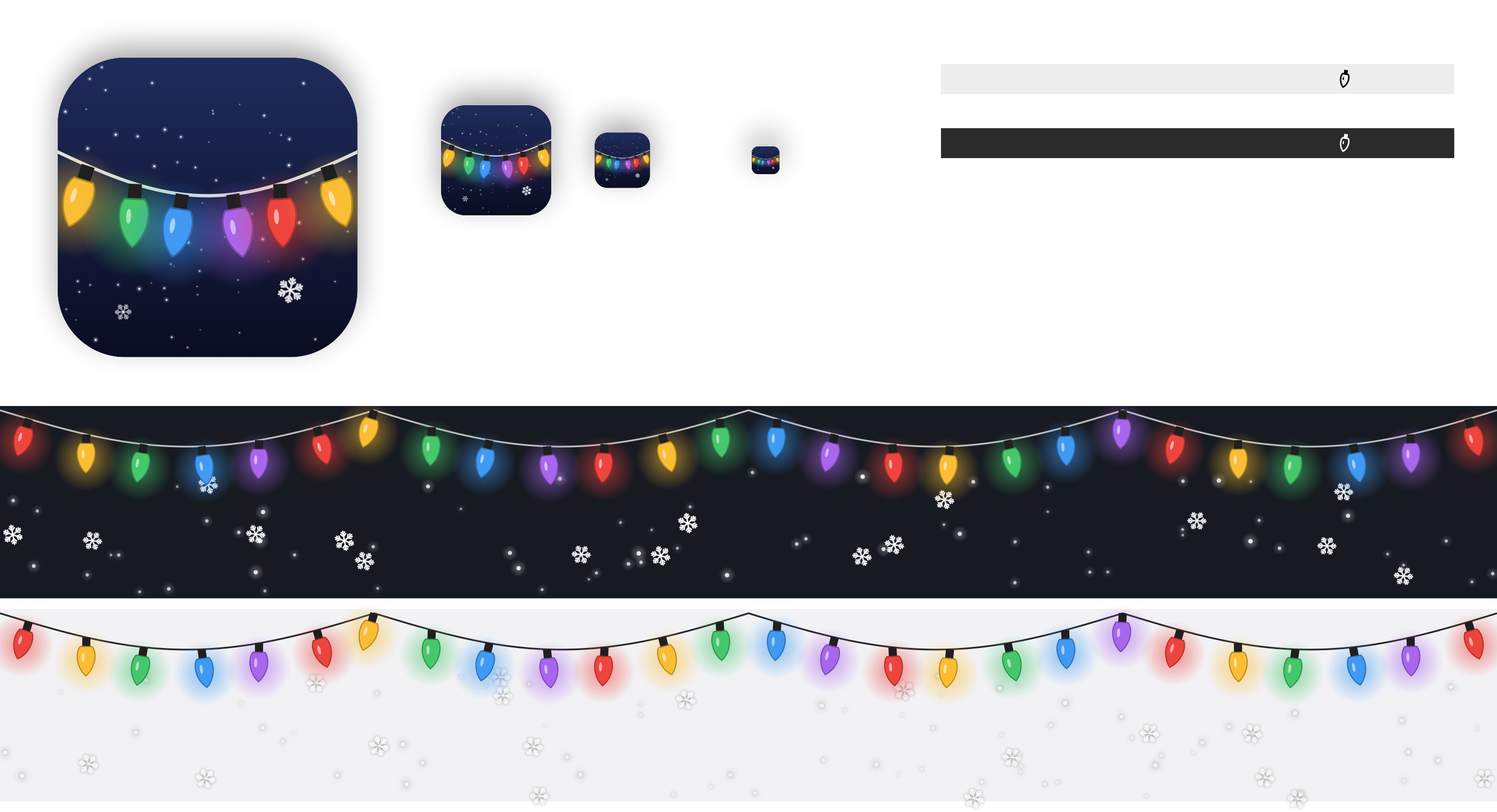
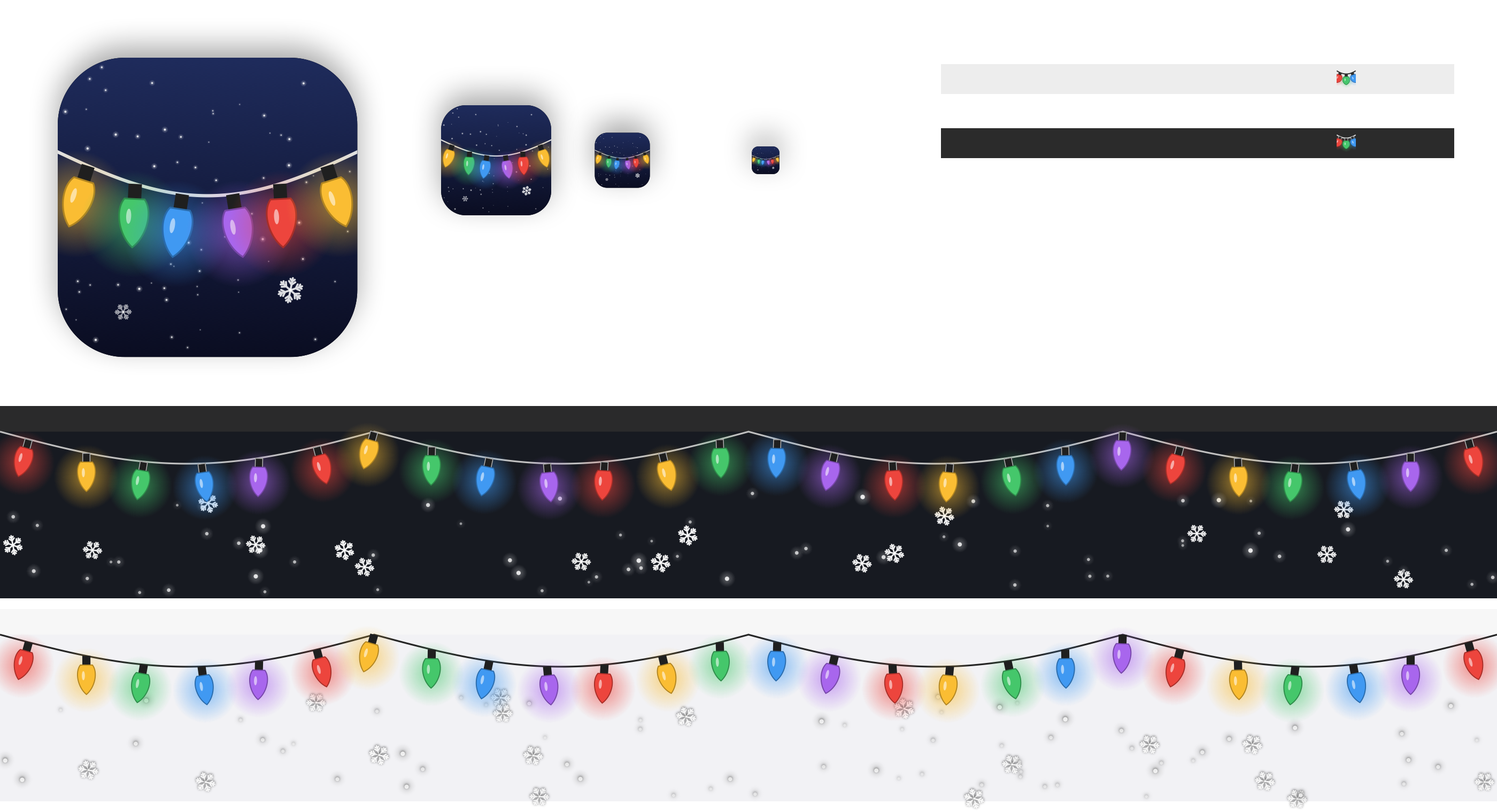
Spezifikation nach Review: Standardwerte, Dock, Schneesturm, Berechtigung, Abnahme; Zielbild aktualisiert

diff --git a/SPEC.md b/SPEC.md
@@ -1,117 +1,169 @@
 # FestiveLights: Spezifikation
 
-Stand: Entwurf zur Abstimmung. Diese Spezifikation beschreibt ausschließlich Verhalten und Erlebnis aus Nutzersicht. Sie enthält bewusst keine Implementierungsdetails. Wie etwas technisch gelöst wird, entscheidet das Implementierungs-Team.
+Diese Spezifikation beschreibt Verhalten und Erlebnis aus Nutzersicht. Wie etwas technisch gelöst wird, entscheidet das Implementierungs-Team. Ausnahme sind die Rahmenbedingungen in Abschnitt 9 und die Grafikvorgaben in Abschnitt 8.
 
 ## 1. Produktidee
 
-FestiveLights macht den Mac in der Weihnachtszeit festlich: eine Lichterkette hängt unter der Menüleiste, Schnee fällt über den Bildschirm. Beides reagiert auf den Mauszeiger und stört nie bei der Arbeit.
+FestiveLights macht den Mac in der Weihnachtszeit festlich: Eine Lichterkette hängt unter der Menüleiste, Schnee rieselt über den Bildschirm. Beides reagiert auf den Mauszeiger und stört nie bei der Arbeit.
 
-Ziel ist ein Lächeln innerhalb von 10 Sekunden nach dem ersten Start und dass Nutzer die App die ganze Saison über anlassen.
+Ziel: ein Lächeln innerhalb von 10 Sekunden nach dem ersten Start, und Nutzer lassen die App die ganze Saison über an.
 
 ## 2. Gestaltungsprinzipien
 
-1. **Liebe zum Detail vor Feature-Menge.** Lieber wenige Dinge, die sich hochwertig und lebendig anfühlen.
-2. **Nie im Weg.** Klicks gehen immer durch Lichter und Schnee hindurch. Was dem Zeiger nahekommt, weicht sanft aus.
-3. **Sofortige Magie.** Nach dem Start leuchtet es sofort, ohne Einrichtung und ohne Dialoge.
+1. **Liebe zum Detail vor Feature-Menge.** Wenige Dinge, die sich hochwertig und lebendig anfühlen. Nichts schaltet hart, alles blendet, schwingt oder glimmt.
+2. **Nie im Weg.** Klicks, Scrollen und Drag-and-drop gehen immer durch Lichter und Schnee hindurch. Was dem Zeiger nahekommt, weicht sanft aus.
+3. **Sofortige Magie.** Nach dem Start leuchtet es sofort, ohne Einrichtung und ohne modale Dialoge.
 4. **Respekt vor dem Rechner.** Sparsam mit Energie, besonders im Akkubetrieb.
-5. **Ruhig konfigurierbar.** Wenige, verständliche Einstellungen statt einer Optionswüste.
+5. **Ruhig konfigurierbar.** Wenige, verständliche Einstellungen.
 
-## 3. Umfang
+## 3. Standardwerte beim ersten Start
 
-### Stufe 1, ohne jede Berechtigung (sofort beim ersten Start)
+| Einstellung | Standard |
+|---|---|
+| Lichter an der Menüleiste | an |
+| Farbmodus | bunt |
+| Muster | Funkeln |
+| Tempo, Birnengröße, Abstand | jeweils Mittelstellung (entspricht `Art/preview.png`) |
+| Ebene Lichter | über allen Fenstern |
+| Schnee | an, startet 3 s nach dem App-Start mit leichter Menge (siehe Abschnitt 6) |
+| Schneemenge, Flockengröße, Tempo, Ausweichen | Mittelstellung |
+| Wind | aus |
+| Ebene Schnee | über allen Fenstern |
+| Lichter am Dock | an, sobald die Berechtigung erteilt ist |
+| Schnee bleibt auf Fenstern liegen | an, sobald die Berechtigung erteilt ist |
+| Beim Anmelden starten | aus |
+| Immer Energie sparen | aus |
 
-**F1 Lichterkette an der Menüleiste**
-- Ein Kabel hängt in mehreren gleichmäßigen Bögen unter der Menüleiste über die volle Bildschirmbreite, an jedem Bildschirm mit Menüleiste.
-- Glühbirnen hängen in gleichmäßigen Abständen am Kabel. Jede Birne ist leicht und zufällig geneigt, damit es natürlich wirkt.
-- Farben wechseln reihum durch eine festliche Palette (rot, gelb, grün, blau, lila). Alternativ ein warmweißer Modus.
-- Muster: Dauerleuchten, sanftes Funkeln (einzelne Birnen dimmen zufällig kurz ab), Lauflicht. Standard ist Funkeln.
-- Nähert sich der Mauszeiger dem Kabel, hebt sich der betroffene Kabelabschnitt sanft vom Zeiger weg und senkt sich wieder, wenn der Zeiger geht. Bewegung weich, ohne Ruckeln.
-- Klicks in den Bereich hinter Kabel und Birnen erreichen immer die darunterliegende App.
+Alle Regler haben 5 Stufen. Die Mittelstellung ist der Standard.
 
-**F2 Schnee**
-- Schneeflocken fallen über alle Bildschirme. Mehrere Tiefenebenen: nahe Flocken größer, schneller, heller; ferne kleiner, langsamer, blasser.
-- Flocken pendeln leicht seitlich, Wind kann sie gleichmäßig in eine Richtung treiben, gelegentliche Böen variieren die Bewegung.
-- Flocken weichen dem Mauszeiger aus. Um den Zeiger entsteht eine kleine schneefreie Zone, die Flocken teilen sich um ihn herum.
-- Einstellbar: Schneemenge, Flockengröße, Fallgeschwindigkeit, Wind (aus, links, rechts), Stärke des Ausweichens.
-- **Schneesturm:** ein Schalter im Menü, der für den Moment Menge und Tempo deutlich erhöht.
-- Schnee sieht besonders vor dunklem Hintergrund gut aus, muss aber auch auf hellem Hintergrund sichtbar bleiben (zum Beispiel durch einen leichten Kontrast oder Schatten).
+## 4. Funktionen, Stufe 1 (ohne jede Berechtigung)
 
-**F3 Ebene wählen**
-- Lichter und Schnee lassen sich jeweils "über allen Fenstern" oder "nur auf dem Schreibtisch" (hinter allen Fenstern) anzeigen.
+### F1 Lichterkette an der Menüleiste
 
-**F4 Mehrere Bildschirme**
-- Lichter und Schnee erscheinen auf allen angeschlossenen Bildschirmen. An- und Abstecken sowie Auflösungswechsel werden ohne Neustart übernommen.
-- Bei Vollbild-Apps und auf allen Spaces verhalten sich die Overlays konsistent.
+- Ein Kabel hängt in mehreren gleichmäßigen, flachen Bögen unter der Menüleiste über die volle Bildschirmbreite. Bei Mittelstellung etwa 6 Birnen pro Bogen, Durchhang etwa eine Birnenhöhe, Birnenhöhe etwa wie die Menüleiste.
+- Die Kette hängt auf jedem Bildschirm, der eine Menüleiste zeigt. Bei automatisch ausgeblendeter Menüleiste hängt sie an der Bildschirmoberkante und rutscht mit der Menüleiste nach unten, wenn diese erscheint.
+- Birnen hängen gleichmäßig verteilt am Kabel, jede mit einer kleinen, zufälligen, aber stabilen Neigung (höchstens ±15 Grad).
+- Farben reihum aus der Palette in `Art/README.md`. Alternativ Modus "warmweiß".
+- Muster:
+  - **Dauerleuchten.**
+  - **Funkeln:** Zu jedem Zeitpunkt sind etwa 10 % der Birnen für 0,3 bis 1 s gedimmt, sie glimmen weich aus und wieder an.
+  - **Lauflicht:** Ein heller Abschnitt wandert von links nach rechts, die übrigen Birnen sind gedimmt.
+  - Das Tempo wirkt auf Funkeln und Lauflicht.
+- **Ausweichen:** Kommt der Zeiger dem Kabel näher als etwa 60 pt (von unten oder seitlich), hebt sich der betroffene Abschnitt samt Birnen weich nach oben, bis knapp unter die Menüleiste. Birnen und Schein blenden in Zeigernähe auf etwa 30 % Deckkraft ab. Die Reaktion beginnt innerhalb von 0,1 s. Entfernt sich der Zeiger, senkt sich die Kette innerhalb von etwa 0,5 s wieder, und die Birnen pendeln kurz nach. Steht der Zeiger in der Menüleiste selbst, passiert nichts.
+- Ein- und Ausschalten: Die Kette blendet in etwa 0,3 s ein oder aus. Beim App-Start gehen die Birnen innerhalb von etwa 1,5 s nacheinander von links nach rechts an.
 
-### Stufe 2, nach einer optionalen Berechtigung
+### F2 Schnee
 
-Diese Funktionen brauchen die macOS-Bedienungshilfen-Berechtigung. Die App fragt erst danach, wenn der Nutzer die Stufe 1 erlebt hat (siehe Abschnitt 5). Ohne Berechtigung fehlen nur diese Funktionen, alles andere läuft.
+- Schneeflocken rieseln über alle Bildschirme. Mehrere Tiefenebenen: Nahe Flocken sind größer, schneller und heller, ferne kleiner, langsamer und blasser.
+- Flocken pendeln leicht seitlich. Wind (aus, weht nach links, weht nach rechts) treibt sie in eine Richtung, mit gelegentlichen Böen. Bei "Wind aus" gibt es keine Böen, nur das Pendeln.
+- **Ausweichen:** Um den Zeiger entsteht eine kleine schneefreie Zone, Flocken teilen sich weich um ihn herum. Die Stärke ist einstellbar.
+- Menge, Flockengröße und Fallgeschwindigkeit sind einstellbar. In Mittelstellung sind etwa 80 Flocken pro Bildschirm gleichzeitig sichtbar, in der höchsten Stufe etwa das Vierfache.
+- Flocken bleiben auf hellem und dunklem Untergrund sichtbar (dezenter dunkler Schatten, siehe `Art/preview.png`).
+- Beim Ausschalten entstehen keine neuen Flocken, die vorhandenen fallen aus dem Bild oder blenden innerhalb von 3 s aus.
 
-**F5 Lichterkette am Dock**
-- Eine zweite Lichterkette folgt der Oberkante des Docks (bzw. der Innenkante bei Dock links oder rechts) über die volle Dock-Breite.
-- Wenn Apps geöffnet oder beendet werden und das Dock dadurch breiter oder schmaler wird, passt sich die Kette nach Ende der Dock-Animation zuverlässig an.
-- Ausgeblendetes Dock: Kette erscheint und verschwindet mit dem Dock.
-- Gleiche Optionen wie F1 (Farben, Muster), eigene Ein/Aus-Einstellung.
+**Schneesturm:**
+- Etwa dreifache Menge, doppeltes Tempo, kräftiger Wind mit Böen.
+- Baut sich in etwa 2 s auf, endet nach 30 s oder bei erneutem Klick und klingt dann in etwa 5 s ab.
+- Ist der Schnee aus, schaltet der Sturm ihn für seine Dauer ein.
+- Der Sturm wird nicht gespeichert.
 
-**F6 Schnee bleibt auf Fenstern liegen**
-- Fallender Schnee sammelt sich langsam auf den Oberkanten der Fenster und baut sich über Minuten zu einer weichen Schneeschicht auf.
-- Wird ein Fenster bewegt, rieselt etwas Schnee herunter. Wird ein Fenster geschlossen oder minimiert, fällt sein Schnee herab.
-- **Abschütteln:** Schüttelt man ein Fenster kurz, fällt ein Teil des Schnees ab. Schüttelt man weiter, ist es irgendwann ganz frei. Hört man auf, baut sich der Schnee wieder auf. Normales Verschieben eines Fensters zählt nicht als Schütteln.
-- Herabfallender Schnee zerfällt in feine Flocken, die natürlich und leicht unterschiedlich schnell fallen und ausblenden.
+### F3 Ebene wählen
 
-### Nicht im Umfang
+Lichter und Schnee lassen sich jeweils "über allen Fenstern" oder "nur auf dem Schreibtisch" (hinter allen Fenstern) anzeigen.
 
-Eigener Birnen-Editor, Import und Export von Designs, Kurzbefehle, Zeiger-Effekte, mehrseitiges Onboarding, iPhone-Anbindung, Countdown, Updates über einen Update-Mechanismus.
+### F4 Bildschirme, Spaces, Vollbild
 
-## 4. Bedienung
+- Schnee erscheint auf allen Bildschirmen, Lichter auf jedem Bildschirm mit Menüleiste.
+- Anstecken, Abstecken und Auflösungswechsel werden ohne Neustart übernommen.
+- Lichter und Schnee sind auf allen Spaces sichtbar. In Vollbild-Apps sind sie ausgeblendet.
+- Sie erscheinen nicht als eigene Fenster in Mission Control, im App-Umschalter oder in Fensterlisten.
+- Sie erscheinen nicht in Bildschirmfotos, Bildschirmaufnahmen und Bildschirmfreigaben.
 
-**Menüleisten-Symbol** (bunt, drei Birnen am Kabel, dezent animiert, siehe Art/README.md) mit Menü:
+## 5. Funktionen, Stufe 2 (nach einer optionalen Berechtigung)
+
+F5 und F6 dürfen höchstens eine optionale macOS-Systemberechtigung erfordern. Welche, entscheidet das Team. Die Bildschirmaufnahme-Berechtigung ist ausgeschlossen. Ohne Berechtigung fehlen nur F5 und F6, alles andere läuft. Wird sie erteilt, schalten sich F5 und F6 ohne Neustart ein. Wird sie entzogen, verschwinden F5 und F6 binnen 5 s ohne Dialog.
+
+### F5 Lichterkette am Dock
+
+- Dock unten: Das Kabel liegt in flachen Bögen auf der Oberkante des Docks über dessen volle Breite. Die Birnen hängen nach unten und überdecken höchstens das obere Viertel der Symbole.
+- Dock links oder rechts: Das Kabel läuft an der Innenkante entlang, die Birnen zeigen zur Bildschirmmitte.
+- Die Kette erscheint nur auf dem Bildschirm, der gerade das Dock zeigt. Die Vergrößerung beim Überfahren wird ignoriert.
+- Ändert sich die Dock-Größe (Apps öffnen oder beenden, Dock-Position, Größe), liegt die Kette spätestens 0,5 s nachdem das Dock seine neue Größe erreicht hat, wieder deckungsgleich an. Abweichung höchstens 2 pt.
+- Ausgeblendetes Dock: Die Kette erscheint und verschwindet mit dem Dock.
+- Farbe, Muster, Größe und Abstand gelten für beide Ketten gemeinsam. Dock-Lichter haben eine eigene Ein/Aus-Einstellung. Ausweichen wie F1, nur hebt sich das Kabel hier vom Dock weg zur Bildschirmmitte.
+
+### F6 Schnee bleibt auf Fenstern liegen
+
+- Fallender Schnee sammelt sich auf den sichtbaren Oberkanten normaler App-Fenster, nicht auf Menüs, Popovers und Vollbild-Fenstern.
+- Die Schicht wird höchstens etwa 12 pt hoch, ist weich und unregelmäßig und ist bei Standardmenge nach etwa 5 Minuten voll.
+- Wird ein Fenster bewegt, rieselt etwas Schnee herunter. Wird es geschlossen oder minimiert, fällt sein Schnee herab.
+- **Abschütteln:** Schütteln heißt mindestens 3 Richtungswechsel beim Ziehen innerhalb von 1 s. Danach entfernt jeder weitere Richtungswechsel etwa ein Drittel des verbleibenden Schnees, bis das Fenster frei ist. Hört man auf, baut sich die Schicht wieder auf. Normales Verschieben, auch mit Korrekturbewegung, entfernt nichts.
+- Herabfallender Schnee zerfällt in feine Flocken, die unterschiedlich schnell fallen und ausblenden.
+- Bei Schnee-Ebene "nur auf dem Schreibtisch" oder ausgeschaltetem Schnee ist F6 inaktiv, liegender Schnee schmilzt in etwa 3 s.
+
+Alles, was in den Abschnitten 3 bis 7 nicht genannt ist, gehört nicht zum Umfang.
+
+## 6. Erster Start und Berechtigung
+
+1. App startet, die Birnen der Menüleisten-Kette gehen nacheinander an (F1). Kein modaler Dialog, kein Fenster.
+2. Nach 3 s beginnt leichter Schnee. Gleichzeitig öffnet sich am Menüleisten-Symbol ein kleines Popover: "Frohe Festtage! ❄ Lust auf einen Schneesturm?" mit einem Button, der den Schneesturm startet. Das Popover nimmt keinen Fokus und schließt sich nach 20 s oder bei Klick daneben.
+3. Einmalig und frühestens 60 s nach Schritt 2 erscheint ein zweites Popover: "Lichter auch ans Dock und Schnee, der auf Fenstern liegen bleibt?" Es erklärt in einem Satz, was die App dafür sieht (Position von Dock und Fenstern) und was nicht (keine Inhalte, keine Eingaben), und bietet einen Button, der direkt zur passenden Stelle in den Systemeinstellungen führt.
+4. Wird das Popover übersprungen, fragt die App nie wieder von selbst. Der Weg bleibt über Menü und Einstellungen erreichbar.
+
+## 7. Bedienung
+
+**Menüleisten-Symbol** (bunt, drei Birnen am Kabel, dezent animiert, siehe `Art/README.md`) mit Menü:
+- Pause (schaltet alles vorübergehend aus und mit erneutem Klick wieder ein, gespeichert bis zum Fortsetzen)
 - Lichter an der Menüleiste (an/aus)
-- Lichter am Dock (an/aus; ohne Berechtigung mit Hinweis "Berechtigung nötig")
+- Lichter am Dock (an/aus; ohne Berechtigung mit Hinweis "Berechtigung nötig", Klick führt zu den Systemeinstellungen)
 - Schnee (an/aus)
-- Schneesturm (an/aus)
+- Schneesturm
 - Einstellungen…
 - Beenden
 
+Ein zweiter Start der App öffnet die Einstellungen (wichtig, wenn das Symbol hinter der Kamera-Aussparung verschwindet).
+
 **Einstellungsfenster**, kompakt, drei Bereiche:
-- **Lichter:** Farbmodus (bunt, warmweiß), Muster, Tempo, Birnengröße, Abstand der Birnen, Ebene (F3), Dock-Lichter an/aus.
-- **Schnee:** Menge, Flockengröße, Tempo, Wind, Ausweichen, Ebene (F3), "Schnee bleibt auf Fenstern liegen" an/aus.
-- **Allgemein:** Beim Anmelden starten, Energiesparen (siehe Abschnitt 6), Berechtigungsstatus mit Erklärung und Button zu den Systemeinstellungen, live aktualisiert.
+- **Lichter:** Farbmodus, Muster, Tempo, Birnengröße, Abstand, Ebene, Lichter am Dock an/aus.
+- **Schnee:** Menge, Flockengröße, Tempo, Wind, Ausweichen, Ebene, "Schnee bleibt auf Fenstern liegen".
+- **Allgemein:** Beim Anmelden starten, Immer Energie sparen, Berechtigungsstatus mit Erklärung und Button zu den Systemeinstellungen. Der Status aktualisiert sich live, während das Fenster offen ist.
 
-Alle Einstellungen werden sofort sichtbar übernommen und bleiben über Neustarts erhalten.
+Alle Einstellungen werden sofort sichtbar übernommen und bleiben über Neustarts erhalten. Die Oberfläche ist auf Deutsch und Englisch, je nach Systemsprache, sonst Englisch. Die Einstellungen sind mit VoiceOver bedienbar. Lichter und Schnee sind für VoiceOver unsichtbar.
 
-## 5. Erster Start
+## 8. Grafik
 
-1. App startet, Lichter an der Menüleiste gehen sofort an. Kein Dialog, kein Fenster.
-2. Ein kleines, freundliches Hinweisfenster oder Popover am Menüleisten-Symbol: "Lass es schneien ❄" mit einem Button, der den Schnee einschaltet.
-3. Frühestens danach, einmalig und überspringbar: "Lichter auch ans Dock und Schnee, der auf Fenstern liegen bleibt?" mit Erklärung, wofür die Berechtigung gebraucht wird, und Button zu den Systemeinstellungen. Wird die Berechtigung erteilt, schalten sich F5 und F6 ohne Neustart ein.
+Alle Grafiken liegen in `Art/` und sind verbindlich. Maßgeblich sind `Art/README.md` und das Zielbild `Art/preview.png`. Birnen sind in jeder Palettenfarbe einfärbbar und bleiben in jeder Größe scharf. Für Elemente ohne Vorgabe (Schneeschicht auf Fenstern, Popovers, Einstellungsfenster) gestaltet das Team selbst, passend zum Stil der Vorgaben und zu macOS.
 
-## 6. Qualität und Energie
+## 9. Rahmenbedingungen
 
-- Im Ruhezustand (Zeiger nicht in der Nähe, Muster Dauerleuchten) praktisch keine CPU-Last. Mit Schnee und Funkeln deutlich unter 5 % CPU auf einem aktuellen Apple-Silicon-Mac.
-- Energiesparen: im Akkubetrieb bei niedrigem Ladestand oder aktivem Stromsparmodus reduzierte Bildrate. Option "Immer Energie sparen".
-- Keine sichtbaren Ruckler bei 60 Hz und ProMotion.
-- "Bewegung reduzieren" in den Bedienungshilfen wird respektiert (keine Ausweich- und Funkelanimation, ruhiger Schnee).
-- Overlays tauchen nicht in der Fensterauswahl von Bildschirmfotos auf und stehlen nie den Fokus.
-- Keine Abstürze ohne Berechtigung oder beim Wechsel von Bildschirmen.
-
-## 7. Grafik
-
-Alle Grafiken (Birnen, Schneeflocken, App-Icon, Menüleisten-Symbol) sind abgestimmte Vorgaben und liegen im Ordner `Art/`. Verbindlich ist `Art/README.md` samt Farbpalette; `Art/preview.png` zeigt das Zielbild. Birnen werden aus den Vektor-Ebenen zusammengesetzt, in jeder Palettenfarbe eingefärbt und bleiben in jeder Größe scharf. Keine anderen Grafiken verwenden.
-
-## 8. Technische Rahmenbedingungen
-
-- Name FestiveLights, Bundle-ID `ms.blckbox.FestiveLights`, macOS 14 oder neuer, Apple Silicon und Intel.
-- Swift, SwiftUI und AppKit. Keine Fremdabhängigkeiten ohne Rücksprache.
+- Name FestiveLights, Bundle-ID `ms.blckbox.FestiveLights` (Präfix so beabsichtigt), macOS 14 oder neuer, Apple Silicon und Intel.
+- Swift mit SwiftUI und AppKit, keine Fremdabhängigkeiten ohne Rücksprache.
 - Menüleisten-App ohne Dock-Symbol.
-- Vertrieb direkt (signiert, notarisiert), nicht über den App Store.
+- Vertrieb direkt (signiert und notarisiert), nicht über den App Store.
 
-## 9. Abnahme
+## 10. Qualität und Energie
 
-- Erster Start: Lichter sichtbar in unter 2 Sekunden, ohne Interaktion.
-- Klick durch Lichter und Schnee auf darunterliegende Bedienelemente funktioniert überall.
-- Zeiger an Kabel und in den Schnee: sichtbares, weiches Ausweichen.
-- Zwei Bildschirme: Lichter und Schnee auf beiden, Abstecken ohne Fehler.
-- Dock: App öffnen und beenden, Kette passt sich danach korrekt an.
-- Schnee auf Fenstern: nach einigen Minuten sichtbare Schicht. Kurzes Schütteln entfernt einen Teil, langes alles, normales Verschieben nichts.
-- CPU-Messung gemäß Abschnitt 6.
+- Referenzgerät: MacBook Air M2, internes Display, Standardwerte. Messung: Mittel über 60 s in der Aktivitätsanzeige.
+  - Nur Lichter mit Dauerleuchten, Zeiger weit weg: unter 1 % CPU.
+  - Lichter mit Funkeln plus Schnee: unter 5 % CPU.
+  - Schneesturm: unter 10 % CPU.
+  - Speicher unter 150 MB.
+  - Für Intel gibt es keinen Zielwert, die App muss dort aber flüssig laufen.
+- Energiesparen: Im Akkubetrieb unter 20 % Ladung, im Stromsparmodus oder mit "Immer Energie sparen" halbe Flockenzahl und ruhigere Animation. Bei gesperrtem Bildschirm, Ruhezustand oder ausgeschaltetem Display pausiert alles.
+- Keine sichtbar ausgelassenen Bilder bei 60 Hz und 120 Hz.
+- "Bewegung reduzieren": Muster wird Dauerleuchten, kein Ausweichen und Nachpendeln, Schnee mit halbem Tempo ohne Böen und Pendeln, kein Schneesturm, das Menüleisten-Symbol steht still.
+- Die Overlays stehlen nie den Fokus. Keine Abstürze ohne Berechtigung oder beim Wechsel von Bildschirmen.
+
+## 11. Abnahme
+
+1. Erster Start: Lichter sichtbar in unter 2 s ohne Interaktion. Schnee und Popover nach 3 s.
+2. Durchklick-Prüfliste, jeweils bei beiden Ebenen: Menüleisten-Extras, Browser-Tabs direkt unter der Kette, Dock-Symbole unter der Dock-Kette, Fenster-Ampel unter der Schneeschicht, Drag-and-drop und Scrollen unter Schnee.
+3. Ausweichen: Reaktion binnen 0,1 s, in einer Bildschirmaufnahme kein Sprung, Rückkehr binnen 1 s.
+4. Zwei Bildschirme: Lichter und Schnee auf beiden. 20-mal Anstecken und Abstecken ohne Absturz.
+5. Dock: App öffnen und beenden, Dock-Position wechseln, Auto-Hide schalten. Jeweils spätestens 0,5 s danach höchstens 2 pt Abweichung.
+6. Schneeschicht: nach 5 Minuten Standardmenge sichtbar volle Schicht. 3 Richtungswechsel in 1 s plus ein weiterer entfernen etwa ein Drittel. Anhaltendes Schütteln macht das Fenster frei. Zehnmal normales Verschieben entfernt nichts.
+7. Berechtigung erteilen und entziehen ohne Neustart, Verhalten wie in Abschnitt 5.
+8. "Bewegung reduzieren" wie in Abschnitt 10.
+9. Einstellungen überleben einen Neustart.
+10. CPU und Speicher wie in Abschnitt 10.
+11. 8 Stunden Dauerlauf ohne nennenswerten Speicherzuwachs.

diff --git a/Art/README.md b/Art/README.md
@@ -1,8 +1,8 @@
 # FestiveLights: Grafiken
 
-Alle Grafiken sind eigene Entwürfe für FestiveLights und mit dem Auftraggeber abgestimmt. `preview.png` zeigt, wie alles zusammen aussehen soll.
+Alle Grafiken sind eigene, mit dem Auftraggeber abgestimmte Entwürfe. Maßgeblich für das Aussehen ist das Zielbild `preview.png`. Die Angaben hier beschreiben, wie die Teile zusammengehören.
 
-## Farbpalette (sRGB)
+## Farbpalette (sRGB, vom Auftraggeber freigegeben)
 
 | Name | Hex |
 |---|---|
@@ -15,37 +15,37 @@ Alle Grafiken sind eigene Entwürfe für FestiveLights und mit dem Auftraggeber 
 
 Reihenfolge an der Kette: rot, gelb, grün, blau, lila, dann von vorn.
 
-## Glühbirne (Stil "Retro-Glas", C9-Form)
+## Glühbirne (klassische C9-Form)
 
-Vier Vektor-Ebenen, jeweils 24 × 40 pt, gleiche Leinwand, Fassungsmitte oben mittig (Aufhängepunkt am Kabel = Punkt (12, 0)):
+Vier Vektor-Ebenen, jeweils 24 × 40 pt auf derselben Leinwand. Koordinatenursprung links oben, der Aufhängepunkt am Kabel ist die Mitte der Fassungsoberkante bei (12, 0).
 
 | Datei | Inhalt | Darstellung |
 |---|---|---|
-| `bulb-socket.pdf` | Fassung | unverändert (dunkelgrau) |
-| `bulb-body.pdf` | Glaskörper als Maske | in der Birnenfarbe füllen |
-| `bulb-outline.pdf` | Kontur des Glaskörpers | Birnenfarbe 35 % Richtung Schwarz abgedunkelt |
-| `bulb-highlight.pdf` | Glanzlicht | weiß, ca. 55 % Deckkraft |
+| `bulb-socket.pdf` | Fassung | dunkelgrau; auf dunklem Untergrund mit feiner heller Kante wie im Zielbild |
+| `bulb-body.pdf` | Glaskörper als Form | in der Birnenfarbe gefüllt |
+| `bulb-outline.pdf` | Kontur des Glaskörpers | sichtbar dunkler als die Birnenfarbe |
+| `bulb-highlight.pdf` | Glanzlicht | weiß, halbtransparent |
 
-Leuchten: weicher radialer Schein in der Birnenfarbe um die Mitte des Glaskörpers, Radius etwa 1,3-mal die Birnenhöhe, innen ca. 55 % Deckkraft, nach außen auf 0. Eine "aus" gedimmte Birne verliert den Schein und wird deutlich dunkler, bleibt aber erkennbar.
+Leuchten: weicher, runder Schein in der Birnenfarbe um den Glaskörper, er reicht etwa eine Birnenhöhe weit und läuft nach außen aus (siehe Zielbild). Eine gedimmte Birne verliert den Schein und wird deutlich dunkler, bleibt aber erkennbar.
 
-Die Birne darf beliebig skaliert und gedreht werden (Drehpunkt = Aufhängepunkt). Das Kabel ist eine schlichte Linie, auf dunklem Hintergrund hellgrau, auf hellem dunkelgrau.
+Die Birne darf beliebig skaliert und um den Aufhängepunkt gedreht werden. Das Kabel ist eine schlichte Linie, auf dunklem Untergrund hellgrau, auf hellem dunkelgrau. Maßgeblich ist das System-Erscheinungsbild (hell/dunkel).
 
-## Schnee (Stil "Mix")
+## Schnee
 
-- Überwiegend weiche, runde Flocken: weißer Kern mit leichtem weißen Schein. Größe und Deckkraft wachsen mit der Nähe (nah: groß und hell, fern: klein und blass).
-- Nur die vordersten, größten Flocken (etwa jede zehnte) sind Kristalle: `snowflake-crystal.pdf` (weiß, 20 × 20 pt), skaliert und leicht gedreht, langsam rotierend.
-- Auf hellem Hintergrund bekommen Flocken einen dezenten dunklen Schatten, damit sie sichtbar bleiben.
+- Überwiegend weiche, runde Flocken, gezeichnet: weißer Kern mit leichtem weißen Schein. Größe und Deckkraft wachsen mit der Nähe (nah groß und hell, fern klein und blass).
+- Nur einzelne der vordersten, größten Flocken sind Kristalle: `snowflake-crystal.pdf` (weiß, 20 × 20 pt), skaliert und leicht gedreht, langsam rotierend.
+- Immer mit dezentem dunklen Schatten, damit sie auch auf hellem Untergrund sichtbar bleiben (siehe unterer Streifen im Zielbild).
 
 ## App-Icon
 
-`AppIcon-1024.png` (macOS-Raster, Squircle mit Schatten bereits enthalten). Daraus alle benötigten Größen erzeugen.
+`AppIcon-1024.png` (macOS-Raster, Form und Schatten enthalten). Daraus alle benötigten Größen erzeugen.
 
 ## Menüleisten-Symbol (bunt, dezent animiert)
 
-18 × 18 pt, jeweils als Ebenen für helle und dunkle Menüleiste:
+18 × 18 pt, als Ebenen jeweils für helle und dunkle Menüleiste:
 
 - `menubar-cable-light.pdf` / `menubar-cable-dark.pdf`: das Kabel
 - `menubar-bulb1-*.pdf` (rot), `menubar-bulb2-*.pdf` (grün), `menubar-bulb3-*.pdf` (blau): die drei Birnen samt Schein. Die `-dark`-Varianten haben einen hellen Rand an der Fassung.
 - `menubar-icon-light@2x.png` / `menubar-icon-dark@2x.png`: zusammengesetzte Vorschau.
 
-Animation: Die drei Birnen glimmen nacheinander sanft etwas heller und dunkler (ruhiger Rhythmus, mehrere Sekunden pro Durchgang). Bei "Bewegung reduzieren" steht das Symbol still. Das Symbol ist kein Template-Bild, die passende Variante (hell oder dunkel) richtet sich nach dem Erscheinungsbild der Menüleiste.
+Das Symbol bleibt farbig und wird vom System nicht einfarbig umgefärbt. Die Variante (hell oder dunkel) folgt dem Erscheinungsbild der Menüleiste. Animation: Die drei Birnen glimmen nacheinander sanft etwas heller und dunkler, ein ruhiger Durchgang dauert einige Sekunden. Bei "Bewegung reduzieren" steht das Symbol still.
